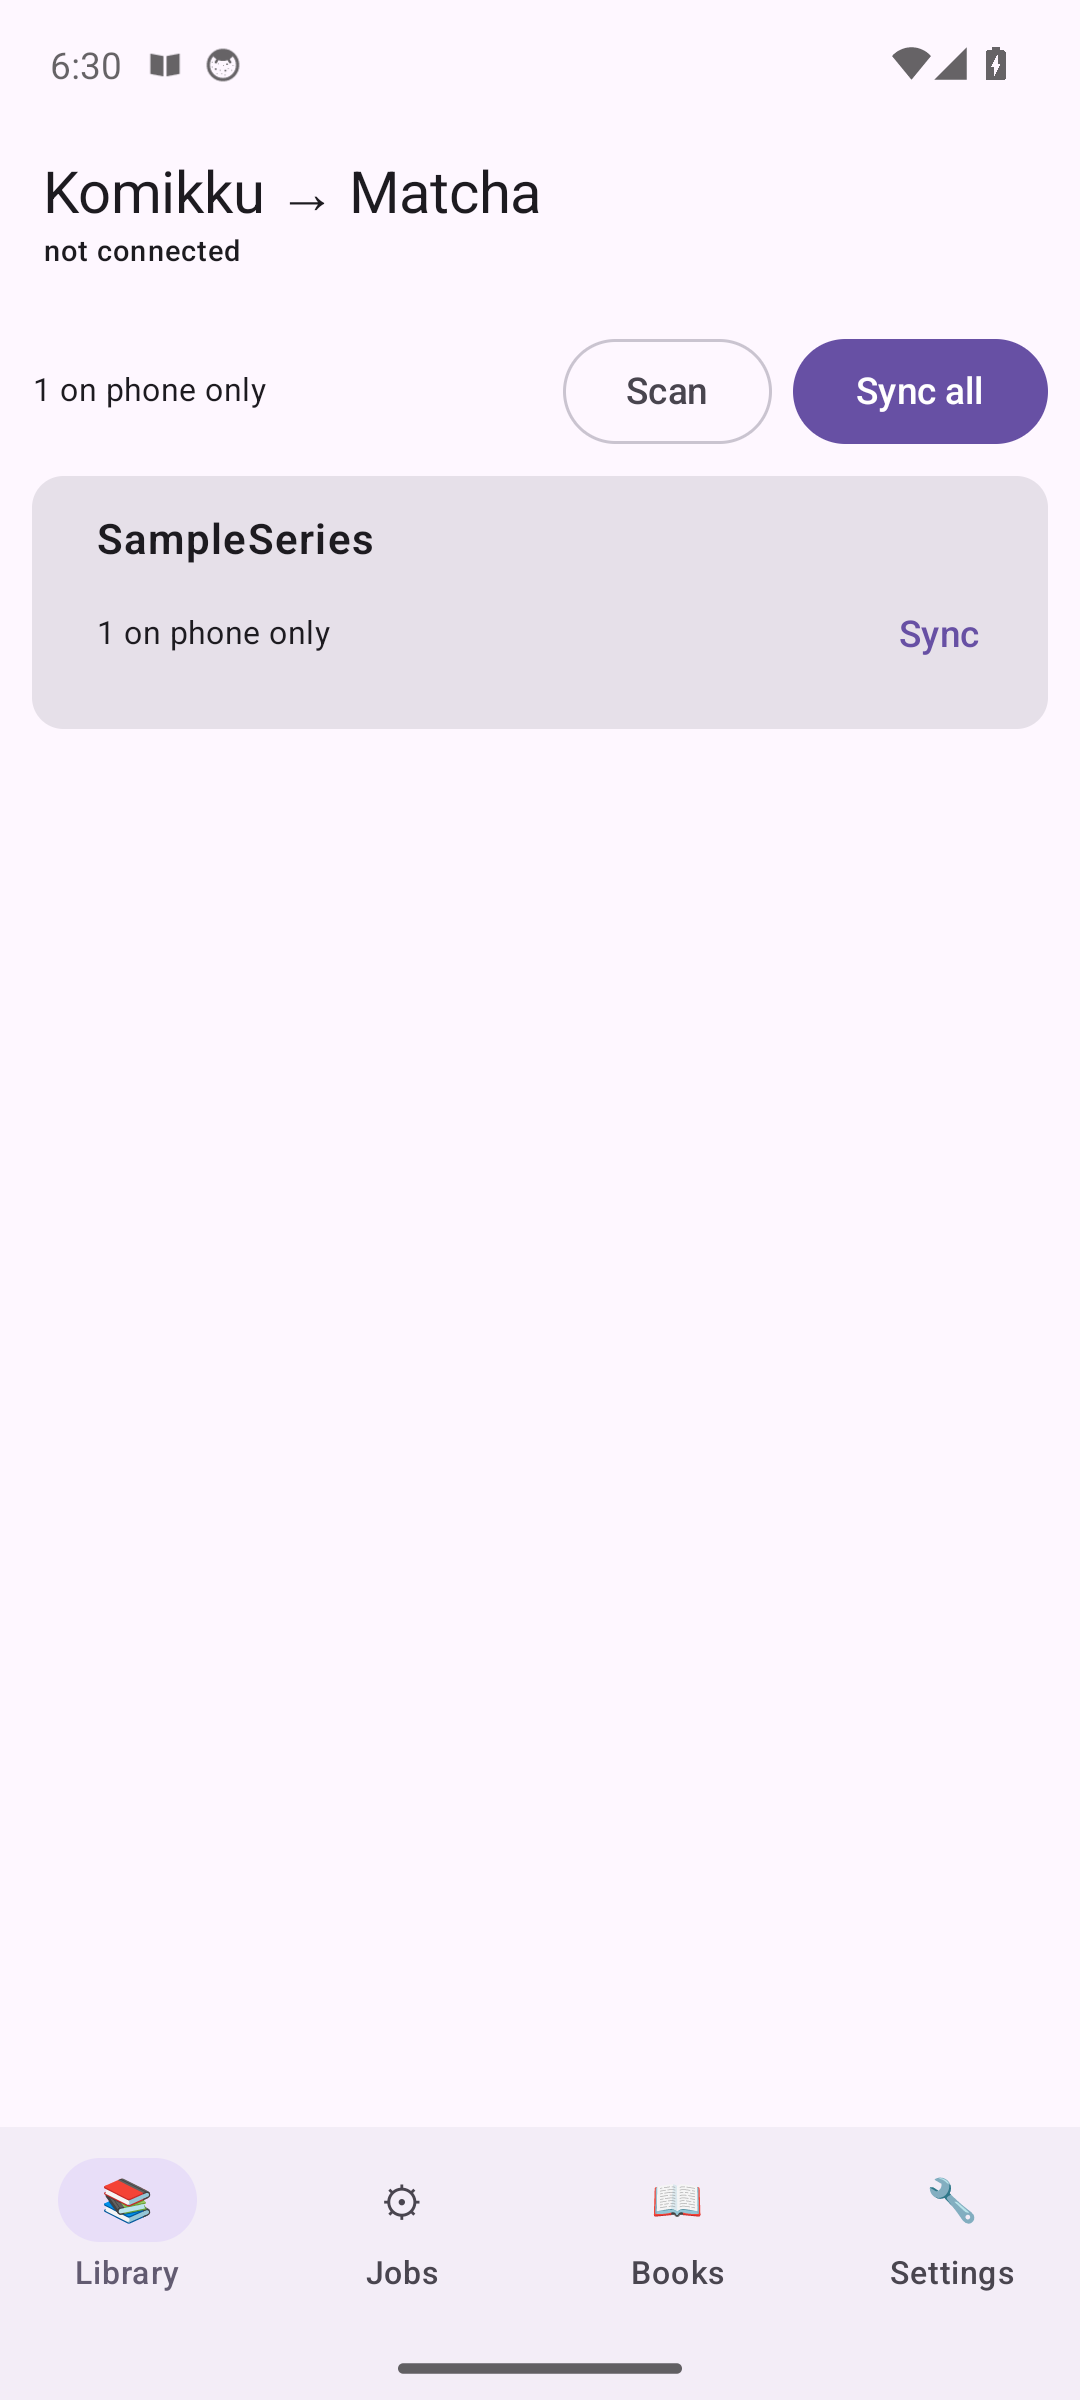
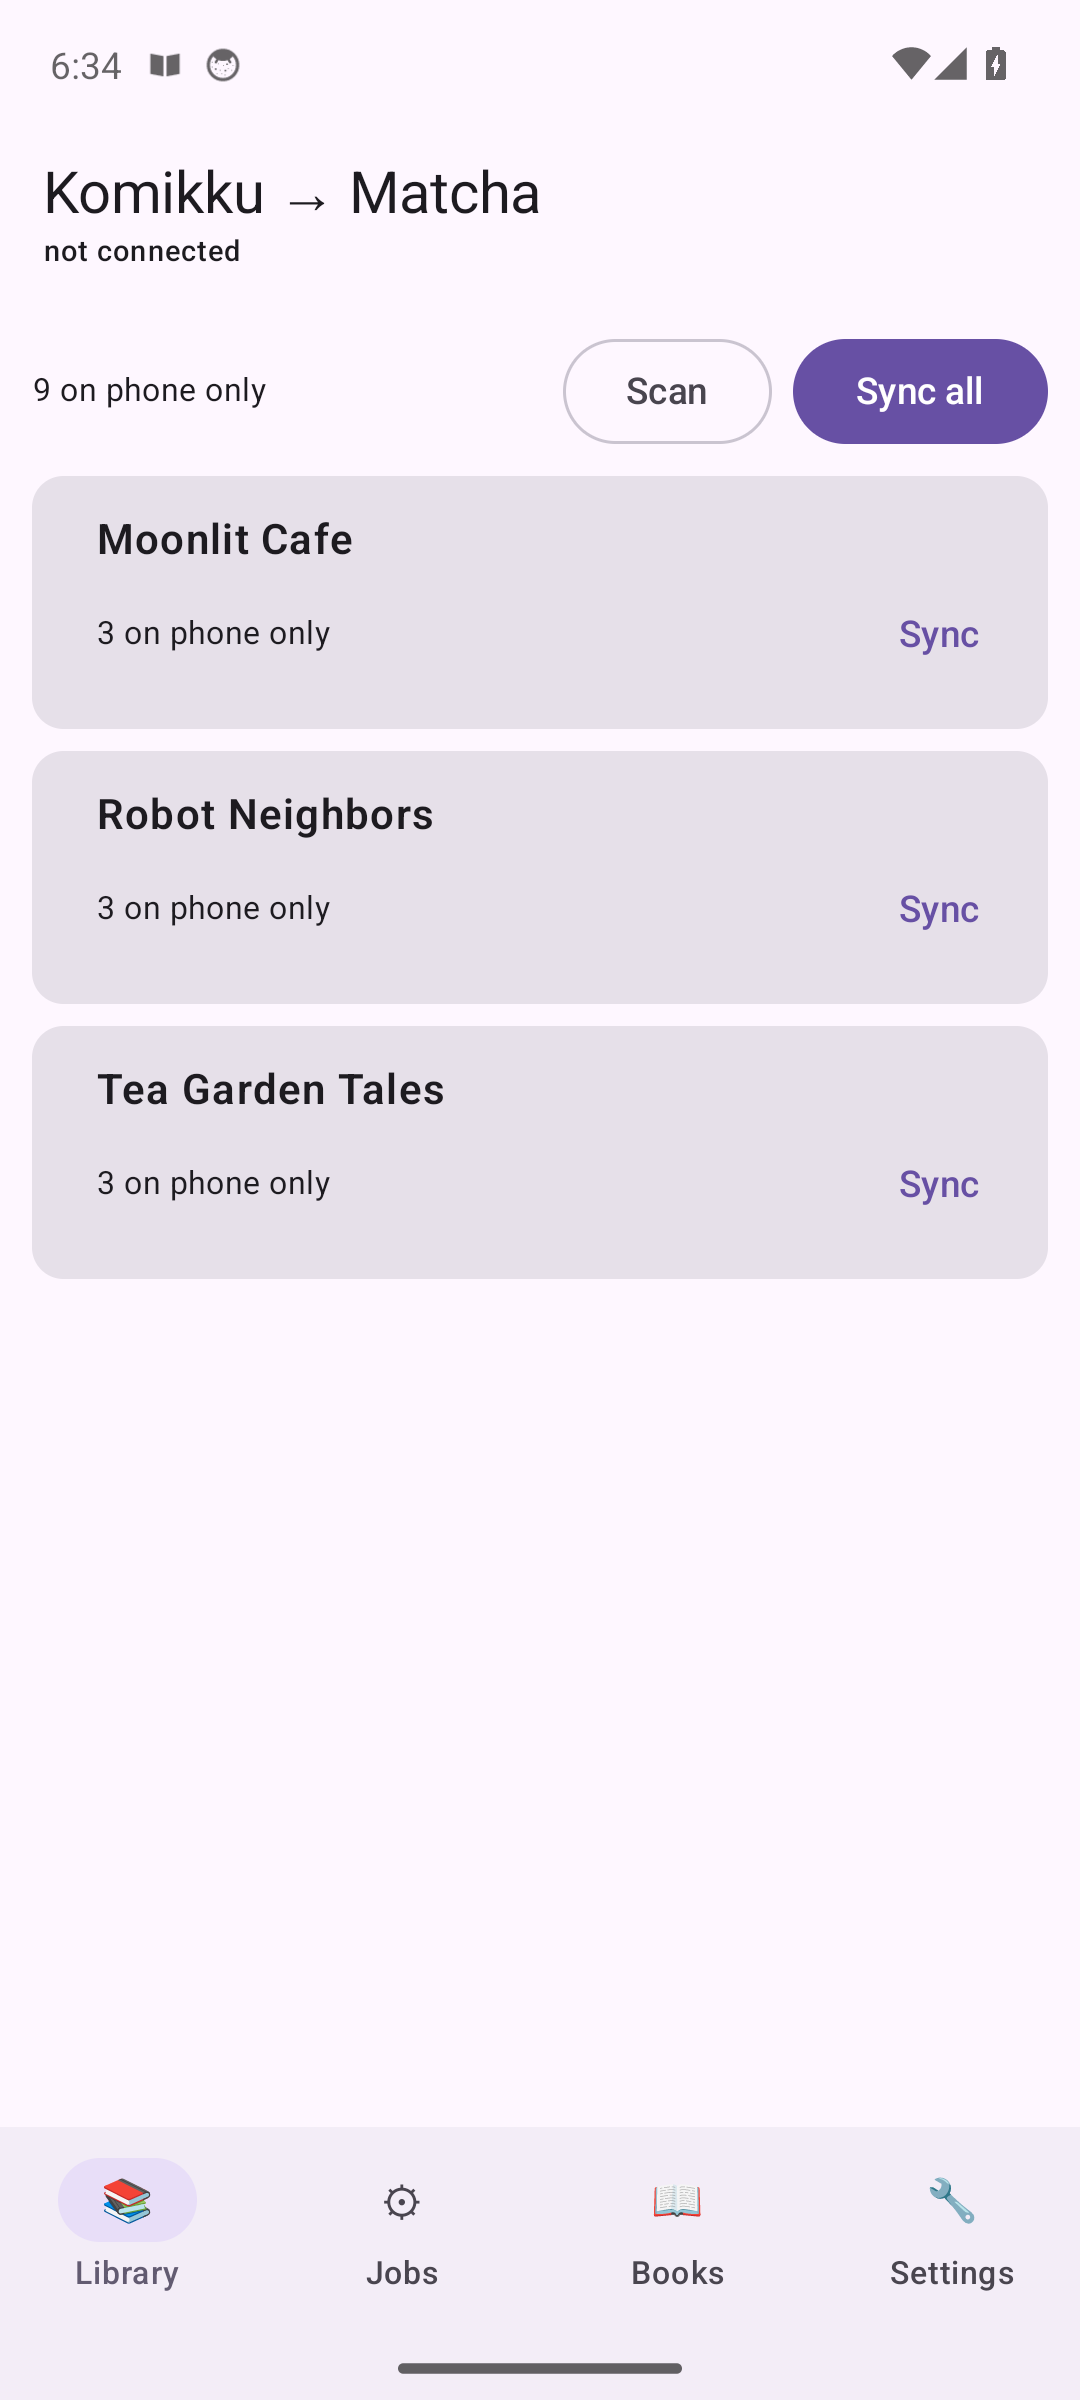
README: example-book screenshots and link to Matcha Reader firmware

diff --git a/README.md b/README.md
@@ -182,8 +182,12 @@ and ComicInfo.xml weren't the problem, since both tools accept WebP.
 
 <p>
   <img src="docs/library.png" width="260" alt="Library tab listing series found in Komikku's download folder">
+  <img src="docs/books.png" width="260" alt="Books tab listing converted books">
   <img src="docs/settings.png" width="260" alt="Settings tab: server URL, token and X4 options">
 </p>
+
+Built for the [Matcha Reader firmware](https://github.com/eszter007/matcha-reader) on the Xteink X4 / X4 Pro; the screenshots below use
+sample series generated for this README.
 
 `k2m_server.py` wraps this tool in a small token-protected HTTP API. `android/` is an app that drives it from your phone:
 
